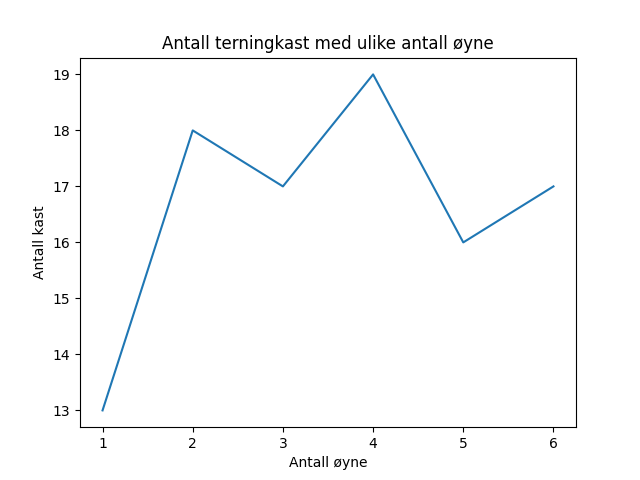
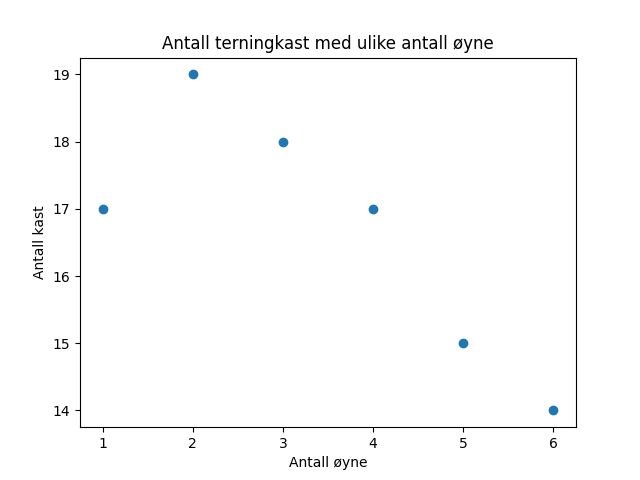
Change from normal plot to scatter plot

diff --git a/periode 3/tegning-av-grafer/oppgave2.py b/periode 3/tegning-av-grafer/oppgave2.py
@@ -11,7 +11,7 @@ def plot_dice_throws(n_throws: int, output_path: str | None = None) -> None:
         dice_throw = random.randint(1, 6)
         throw_results[dice_throw - 1] += 1
 
-    plt.plot(range(1, 7), throw_results)
+    plt.scatter(range(1, 7), throw_results)
 
     plt.title("Antall terningkast med ulike antall øyne")
     plt.ylabel("Antall kast")
